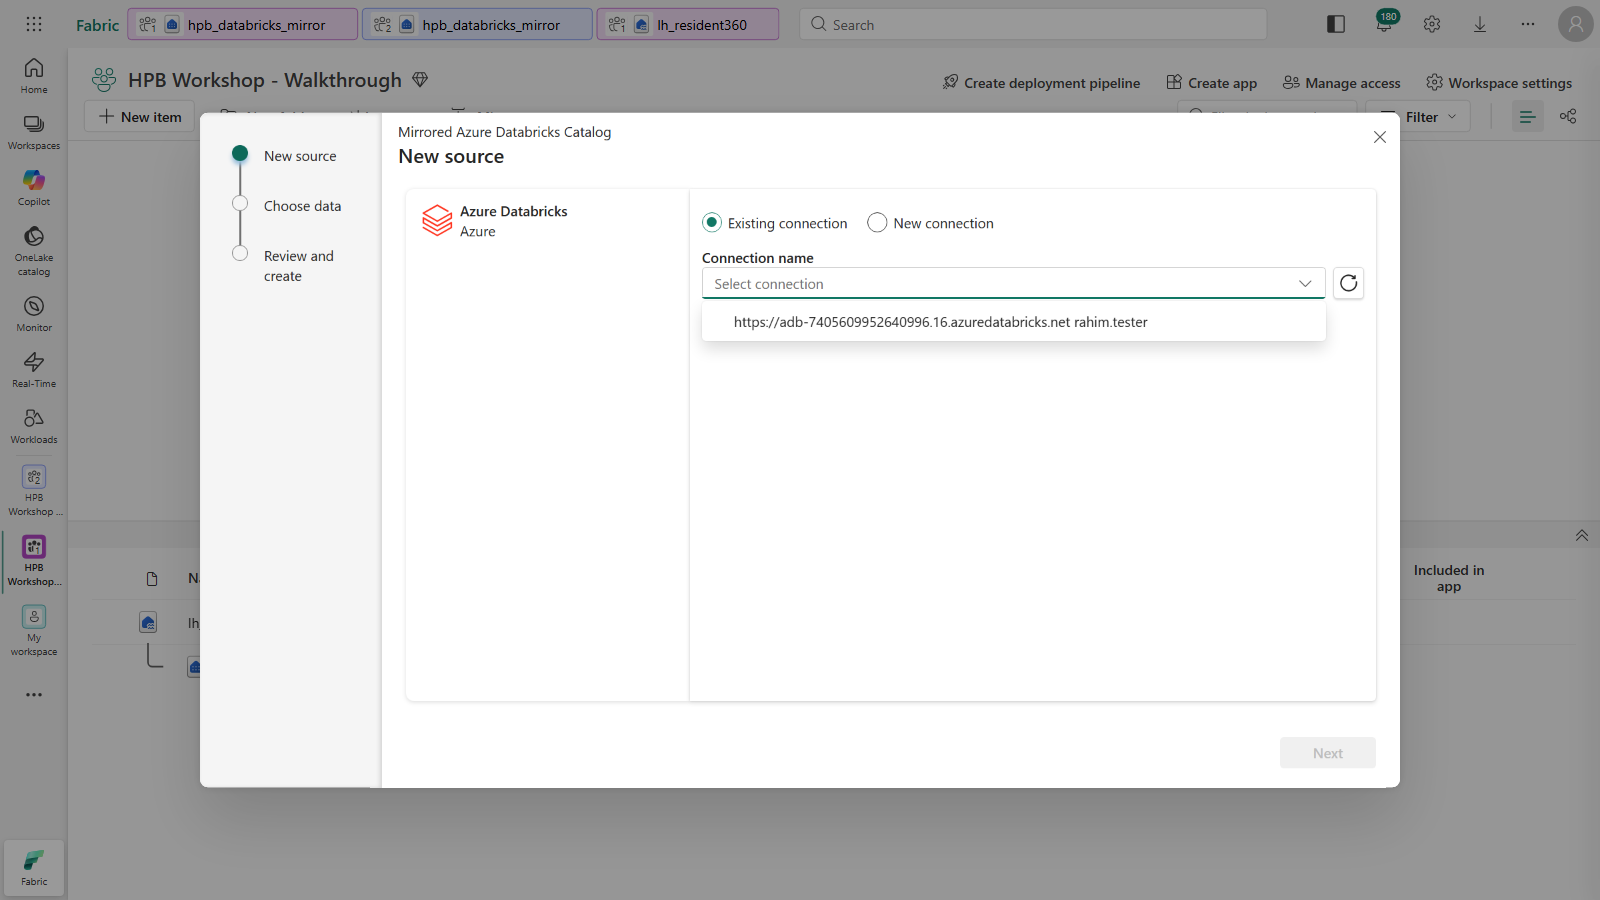
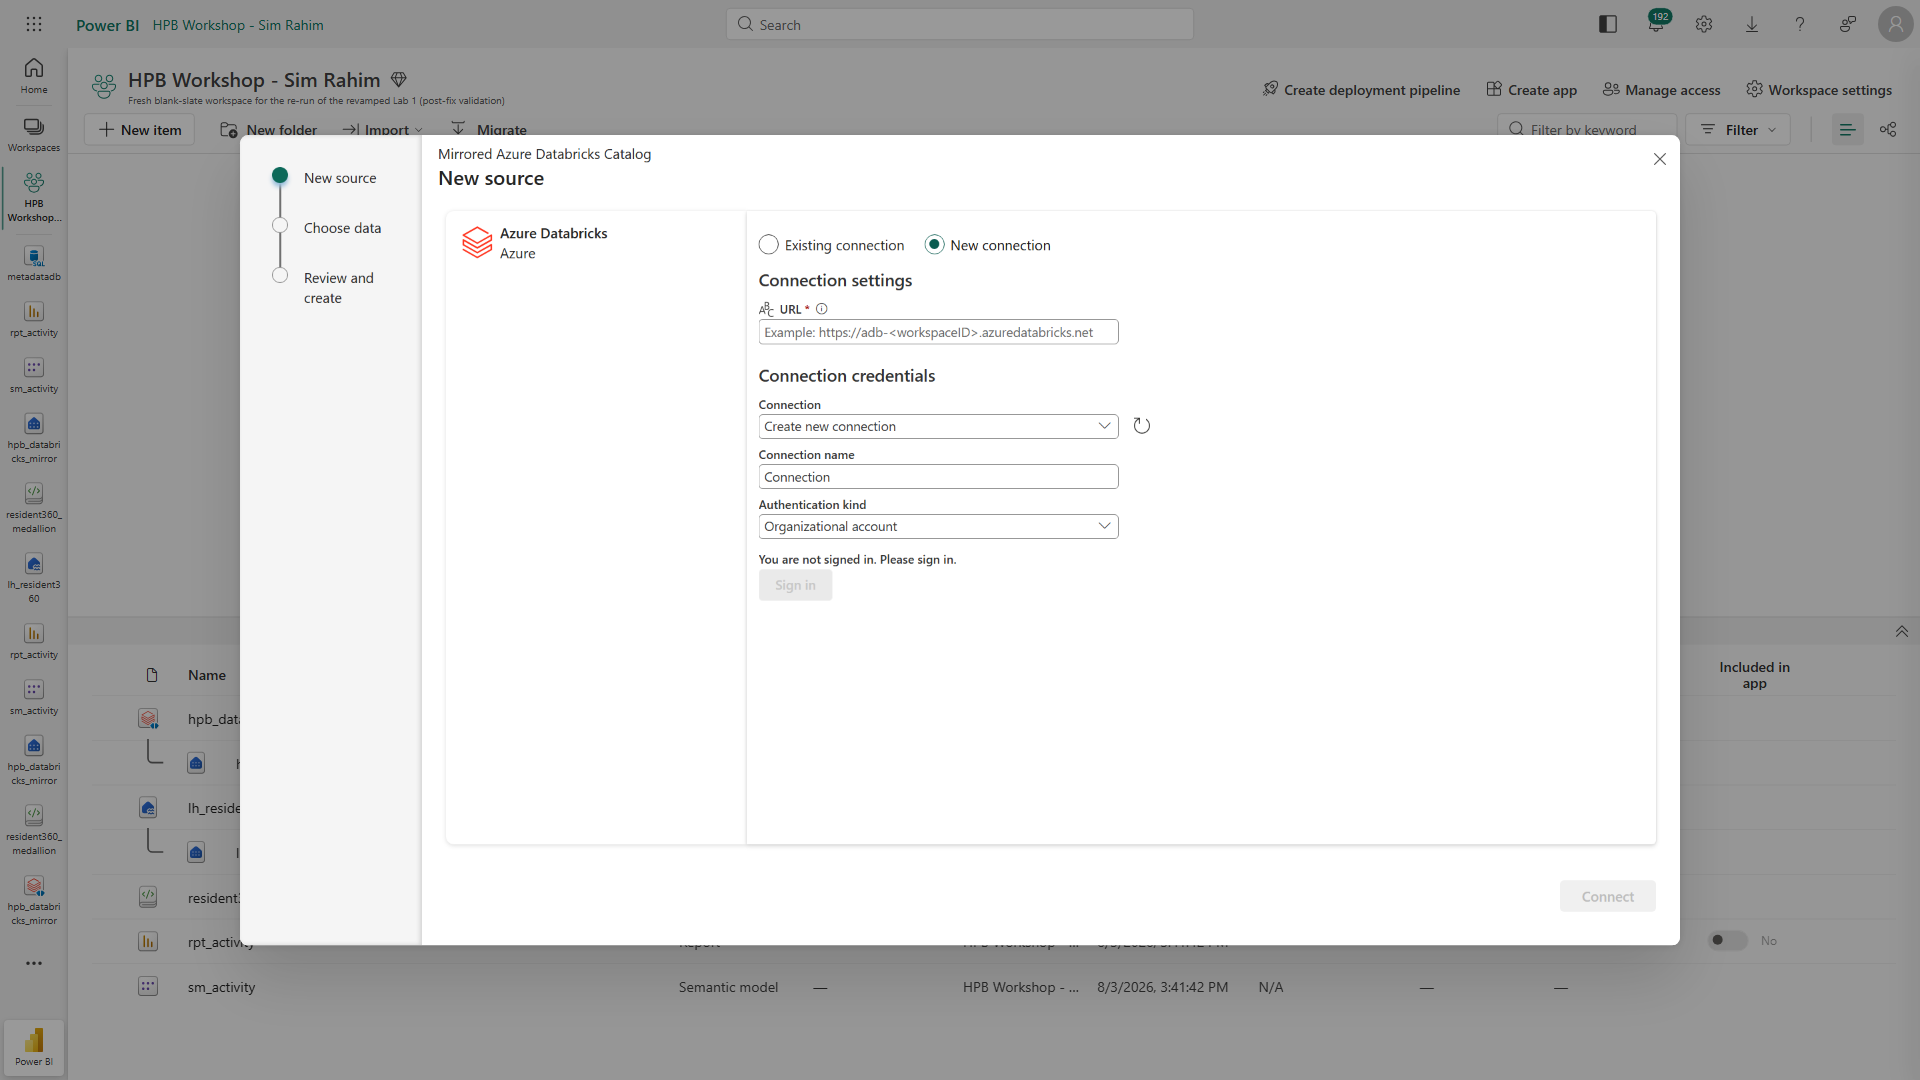
Lab 1: expand steps + add maximised screenshots per review feedback
- Task 1 step 5: lead with New connection (default is no connection yet); add screenshot of the New connection form.
- Task 1: replace the '_mirror suffix must match' warning with a note that the notebook uses the name via the DBX variable (Section 0 Setup + Section 4 Gold) and how to change it.
- Task 1 step 8: add the verify-count screenshot (dim_resident = 1500).
- Task 2 steps 6-8: break into concrete sub-steps with example prompts (Data Wrangler, Spark UI/Monitor, Copilot); add Copilot agent-mode screenshot.
- Task 3: split into 3a create / 3b relationship; clarify switching Viewing->Editing (with screenshot) and what to select; add the New semantic model dialog screenshot.
- Task 4: add the Create report menu screenshot.
- Screenshots recaptured at 1920px (maximised) so they aren't squeezed/truncated.

diff --git a/lab1-build-resident360/README.md b/lab1-build-resident360/README.md
@@ -82,25 +82,36 @@ Fabric with **zero copies** (Fabric reads them live).
 
    ![The New item panel filtered to the Mirrored Azure Databricks catalog tile.](../docs/images/lab1/lab1-06-newitem-mirror-search.png)
 
-5. In the wizard, keep **Existing connection** and open the **connection** dropdown. Pick the shared Databricks
-   connection — it's listed by its **workspace URL** (e.g. `https://adb-....azuredatabricks.net`) with your username,
-   **not** a friendly "workshop" name.
-   - **If the dropdown is empty** (first-time use), choose **New connection**, paste the shared **Databricks workspace
-     URL** the facilitator gives you, keep the default auth, and sign in.
+5. In the wizard, the connection dropdown starts **empty** — no connection exists yet, so select **New connection**
+   and fill in the shared Databricks details your facilitator provides:
+   - **Databricks workspace URL** — e.g. `https://adb-....azuredatabricks.net`
+   - **Authentication kind** — keep the default (**OAuth 2.0**); **sign in** with your workshop account when prompted.
 
-   Then **Next** → choose catalog **`hpb_databricks`**, tick the **`gold`** schema → **Next**.
+   Click **Connect** (or **Next**).
+
+   ![The New connection form for the Mirrored Azure Databricks catalog, with the workspace URL and OAuth sign-in.](../docs/images/lab1/lab1-08-mirror-connection.png)
+
+   > If a connection was **already** set up for you, it appears in the dropdown listed by its Databricks **URL**
+   > (`https://adb-....azuredatabricks.net`) — keep **Existing connection** and just pick it.
+
+6. Choose catalog **`hpb_databricks`**, tick the **`gold`** schema → **Next**.
 
    ![The Choose data step with hpb_databricks and the gold schema ticked.](../docs/images/lab1/lab1-09-mirror-choosedata.png)
 
-6. On **Review and create**, change the **Name** to exactly **`hpb_databricks_mirror`** → **Create**.
+7. On **Review and create**, set the **Name** to **`hpb_databricks_mirror`** → **Create**.
 
-   ![The Review step with the name changed to hpb_databricks_mirror.](../docs/images/lab1/lab1-10-mirror-review-name.png)
+   ![The Review step with the name set to hpb_databricks_mirror.](../docs/images/lab1/lab1-10-mirror-review-name.png)
 
-   > ⚠ The name **must** be `hpb_databricks_mirror` (with the `_mirror` suffix) — the notebook refers to it by this
-   > exact name. If sign-in ever says *"Sign in canceled,"* click **Sign in** again (1–3 tries).
+   > **Note:** the notebook reads the mirror through a variable **`DBX = "hpb_databricks_mirror.gold"`**, set in the
+   > notebook's **Section 0 · Setup** cell (and re-declared in the **Section 4 · Gold** cells). You can name the mirror
+   > whatever you like — but if you use a name **other than** `hpb_databricks_mirror`, update every
+   > `DBX = "...gold"` line to `"<your_mirror_name>.gold"` before you run the notebook. If sign-in ever says
+   > *"Sign in canceled,"* click **Sign in** again (1–3 tries).
 
-7. The `gold` tables sync in 1–3 min. **Verify (zero-copy):** open the mirror → **SQL analytics endpoint** →
-   **New SQL query** → `SELECT COUNT(*) FROM hpb_databricks_mirror.gold.dim_resident;` → expect **1500**.
+8. The `gold` tables sync in 1–3 min. **Verify (zero-copy):** open **`hpb_databricks_mirror`** → its **SQL analytics
+   endpoint** → **New SQL query** → run `SELECT COUNT(*) FROM hpb_databricks_mirror.gold.dim_resident;` → expect **1500**.
+
+   ![A New SQL query on the mirror's SQL analytics endpoint returning 1500 for dim_resident.](../docs/images/lab1/lab1-18-verify-count.png)
 
 > **Note:** don't shortcut the mirror into a `gold`/`silver`/`bronze` schema of `lh_resident360` — a read-only shortcut
 > collides with the writable medallion you build next. The notebook reads the mirror directly instead.
@@ -144,15 +155,33 @@ This is the heart of the lab: land the raw files, then run **one notebook** that
 
    ![The medallion notebook after a successful run, tables created.](../docs/images/lab2/lab2-15-notebook-run-complete.png)
 
-6. **Data Wrangler (Section 1).** After Bronze lands, open `bronze.h365_meal_logs` in **Data Wrangler** (Explorer ⋯ →
-   *Open in Data Wrangler*), try **Drop missing values** on `calories` and a type cast, then **Add code to notebook** —
-   see how clicks become code. *(Silver does the authoritative cleaning; this is just to experience the tool.)*
+6. **Data Wrangler (Section 1).** After Bronze lands, get a feel for Fabric's no-code data cleaning:
+   1. In the Explorer, expand **`lh_resident360` → Tables → `bronze`** and hover **`h365_meal_logs`** → **⋯** →
+      **Open in Data Wrangler** (or ribbon **Home → Data Wrangler → bronze.h365_meal_logs**).
+   2. In the left **Operations** panel, choose **Find and replace → Drop missing values**, pick the **`calories`**
+      column, and **Apply** — watch the row count drop and the change appear in the **Cleaning steps** list.
+   3. Try a second operation, e.g. **Transformations → Change column type** on `calories` → **Decimal**.
+   4. Click **Add code to notebook** (top right) — Data Wrangler drops the equivalent PySpark into a new cell so you
+      can see how the clicks became code. *(You don't need to run it — the notebook's Silver step does the
+      authoritative cleaning; this is just to experience the tool.)*
 
-7. **Observability (Section 6).** Run the **skewed** then **tuned** cells and compare them in the **Spark jobs** view
-   and the **Monitor** hub — one long task vs. many short parallel tasks. Note the **resource-prioritisation** guidance.
+7. **Spark UI, monitoring & resource prioritisation (Section 6).** See *how* your jobs ran:
+   1. Run the **skewed** cell, then the **tuned** cell in Section 6.
+   2. Under a running/finished cell, click **… → View Spark job** (or the **Spark jobs** link) to open the **Spark UI**
+      — compare the **skewed** job (one long-running task on a single partition) with the **tuned** job (many short,
+      parallel tasks after Adaptive Query Execution).
+   3. Left nav → **Monitor** hub → open this notebook's run to see duration, status and the Spark detail for each cell.
+   4. Read the **resource-prioritisation** note in the cell (custom pool / Autoscale Billing for Spark) — how a
+      nightly ETL and ad-hoc queries share the capacity.
 
-8. **Copilot agent mode (Section 7).** Open **Copilot** in the toolbar, switch to **agent mode**, and ask it to profile
-   or chart `gold.resident_360`. Watch it plan → generate → run.
+8. **Copilot in the notebook (Section 7).** Experience the AI assistant:
+   1. Click **Copilot** on the notebook toolbar to open the chat panel.
+   2. Ask it a concrete question about your data, for example:
+      - *"Profile `gold.resident_360`: row count, % disengaged, and average steps by region. Add the result as a new cell."*
+      - *"Chart average `mvpa_minutes` by `age_band` from `gold.resident_360`."*
+   3. Watch Copilot **plan → generate a cell → run it**, then review the cell it added.
+
+   ![Copilot in the notebook generating and running a cell over gold.resident_360.](../docs/images/lab1/lab1-21-copilot-agent.png)
 
 > **Done when you see:** `bronze.*` (6 tables + `env_air_quality`), `silver.fact_*` (6), and **`gold.resident_360`**
 > (1,500 rows) with an `is_disengaged` split of **roughly 12% disengaged** (about 180 of 1,500 residents flagged `1`).
@@ -162,24 +191,48 @@ This is the heart of the lab: land the raw files, then run **one notebook** that
 ### Task 3 — Semantic model
 
 A **semantic model** is the layer reports and (later) the data agent read from. You'll compare it against an **ontology**
-in Lab 4 — so build it now.
+in Lab 4 — so build it now on the two Databricks-mirror tables.
 
-1. Open the mirror's **SQL analytics endpoint** (or the Lakehouse's) → ribbon **New semantic model** → name it
-   **`sm_activity`** → tick **`dim_resident`** and **`daily_activity`** → **Confirm**.
+#### 3a · Create the model
 
-   > ⚠ Make sure **both** `dim_resident` **and** `daily_activity` show a tick before you click **Confirm** — it's easy
-   > to miss one. If you end up with only one table, add the other later via **Model view → Editing → Edit tables**.
+1. Open **`hpb_databricks_mirror`** → its **SQL analytics endpoint**. On the **Home** ribbon click **New semantic model**.
 
-   ![The New semantic model dialog with dim_resident and daily_activity ticked.](../docs/images/lab1/lab1-12-new-semantic-model.png)
+   ![The mirror's SQL analytics endpoint with the New semantic model button on the ribbon.](../docs/images/lab1/lab1-11-mirror-tables.png)
 
-2. In the **Model view** (switch **Viewing → Editing** if needed) → **Manage relationships → New relationship**:
-   `daily_activity(resident_id)` → `dim_resident(resident_id)`, **Many-to-one**, **Single** → **Save**.
+2. In the dialog:
+   - **Name** the model **`sm_activity`**.
+   - Leave **Direct Lake on SQL** selected.
+   - Under the **`gold`** folder, tick **`daily_activity`** and **`dim_resident`** (leave the others unticked).
+   - Click **Confirm**.
 
-   > **Note:** switching to **Editing** on a Direct Lake model shows a one-time *"Converting semantic model…"* message
-   > (~10 sec) — that's expected. Direct Lake also notes that cardinality/cross-filter are **inferred** and may need a
-   > manual check; here it correctly detects **Many-to-one / Single**.
+   > ⚠ Make sure **both** `daily_activity` **and** `dim_resident` show a tick before **Confirm** — it's easy to miss
+   > one. (If you end up with only one, you can add the other later in step 3 via **Edit tables**.)
 
-   ![The sm_activity model view with the two tables.](../docs/images/lab1/lab1-13-model-relationship.png)
+   ![The New semantic model dialog: name sm_activity, daily_activity and dim_resident both ticked.](../docs/images/lab1/lab1-12-new-semantic-model.png)
+
+#### 3b · Add the relationship
+
+3. The model opens in **Model view**. It starts in **Viewing** mode (read-only). Switch to **Editing**:
+   click the **Viewing** button on the ribbon (top-left) → choose **Editing**.
+
+   > **Note:** the first switch to Editing shows a one-time *"Converting semantic model…"* message (~10 sec) — expected.
+
+   ![The Viewing/Editing dropdown on the model-view ribbon, with Editing highlighted.](../docs/images/lab1/lab1-23-switch-editing.png)
+
+4. If only one table is on the canvas, click **Edit tables** on the ribbon and tick the missing one (`daily_activity`
+   or `dim_resident`), then **Confirm**.
+
+5. On the ribbon click **Manage relationships → + New relationship** and set:
+   - **From table:** `daily_activity`, **column** `resident_id`
+   - **To table:** `dim_resident`, **column** `resident_id`
+   - **Cardinality:** **Many to one (\*:1)** · **Cross-filter direction:** **Single** · **Make active:** on
+
+   Click **Save**. *(Direct Lake infers cardinality from row counts and shows a banner saying so — here it correctly
+   detects Many-to-one / Single.)*
+
+6. Close the dialog — the two tables now show the relationship line on the canvas.
+
+   ![The sm_activity model view with the relationship line between daily_activity and dim_resident.](../docs/images/lab1/lab1-13-model-relationship.png)
 
 ---
 
@@ -187,15 +240,19 @@ in Lab 4 — so build it now.
 
 Instead of hand-placing visuals, let **Copilot** suggest and build the report pages for you.
 
-1. In the workspace list (or from the semantic model), open **`sm_activity` → ⋯ (More options) → Create report**.
-   This opens the report editor bound to `sm_activity` (both tables appear in the **Data** pane).
+1. In the workspace list, hover the **`sm_activity`** row → **⋯ (More options)** → **Create report**. This opens the
+   report editor bound to `sm_activity` (both tables appear in the **Data** pane).
    > *Tip:* the model view also has a **New report** button, but the **⋯ → Create report** path from the list is the
    > most reliable.
-2. In the report editor, click **Copilot** in the toolbar → choose **Suggest content for a new report page**. Copilot
-   proposes an outline of pages (e.g. *Resident activity overview*, *Engagement by demographic segment*, *Activity
-   trends over time*, *Sleep and recovery analysis*).
+
+   ![The sm_activity ⋯ menu with Create report.](../docs/images/lab1/lab1-25-create-report-menu.png)
+
+2. In the report editor, click **Copilot** on the toolbar to open the panel, then choose
+   **Suggest content for a new report page**. Copilot proposes an outline of pages (e.g. *Resident activity overview*,
+   *Engagement by demographic segment*, *Activity trends over time*, *Sleep and recovery analysis*).
+
 3. Click **Create** under a page you like — Copilot builds the page and lays out the visuals for you. Repeat for any
-   other pages, then **Save** the report as **`rpt_activity`**.
+   other pages, then press **Ctrl+S** and **Save** the report as **`rpt_activity`**.
 
    ![Copilot's suggested report pages, built from sm_activity.](../docs/images/lab1/lab1-17-copilot-report.png)
 
